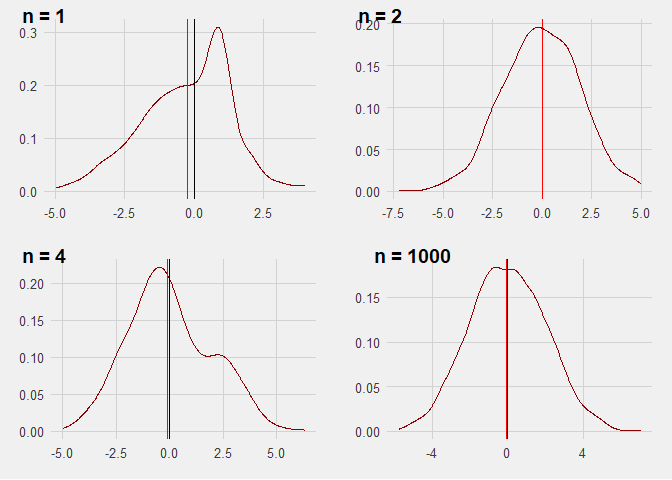
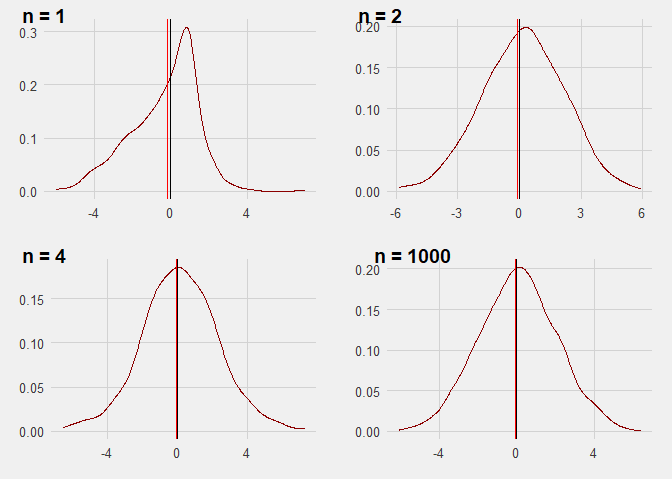
Add files via upload

diff --git a/lab_04/lab04.html b/lab_04/lab04.html
@@ -11,6 +11,7 @@
 
 <meta name="author" content="Your Friendly GEs!" />
 
+<meta name="date" content="2020-10-26" />
 
 <title>Lab 04, Fall 2020</title>
 
@@ -2809,23 +2810,31 @@ div.tocify {
 
 <h1 class="title toc-ignore">Lab 04, Fall 2020</h1>
 <h4 class="author">Your Friendly GEs!</h4>
-<h4 class="date">10/5/2020</h4>
+<h4 class="date">October 26, 2020</h4>
 
 </div>
 
 
 <p>Welcome back! Today, we’re going to learn about functions. These notes are in depth to be sure everyone can learn these skills no matter where you are in your understanding.</p>
-<p>Let’s start our lecture as we always do: load some packages. Packages, as you’ll recall, are functions someone has written for R. For us today, we’ll be working with… - ggplot2 to make amazing data visualizations, - tidyverse to help manipulate data, - magrittr, which helps us tidy up code, and -pacman which makes managing all of these packages so much simpler.</p>
+<p>Let’s start our lecture as we always do: load some packages. Packages, as you’ll recall, are functions someone has written for R. For us today, we’ll be working with…</p>
+<ul>
+<li>tidyverse to help manipulate data,</li>
+<li>magrittr, which helps us tidy up code, and</li>
+<li>pacman which makes managing all of these packages so much simpler.</li>
+<li>ggplot to make some awesome visuals (tune in for a more detailed ggplot lesson next week)</li>
+</ul>
 <div id="lesson-00-packages" class="section level2">
 <h2>Lesson 00: Packages</h2>
+<p>Fire these suckers up</p>
 <pre class="r"><code>library(pacman)
 p_load(tidyverse, magrittr, ggplot2)</code></pre>
 </div>
 <div id="lesson-01-function-basics" class="section level2">
 <h2>Lesson 01: Function Basics</h2>
 <p>Before we talk about functions in R, we should first make sure we understand what a function is in general. You all are probably used to thinking of something like:</p>
-<p>But what really does this even mean? Why is this a useful tool? - It takes some input (a number), and gives us an output (in this case, the squared number, which is indeed also a number). We can represent the function <span class="math inline">\(f\)</span> above as:</p>
+<p>But what really does this even mean? Why is this a useful tool?</p>
 <ul>
+<li><p>It takes some input (a number), and gives us an output (in this case, the squared number, which is indeed also a number). We can represent the function <span class="math inline">\(f\)</span> above as:</p></li>
 <li><p><code>Number -&gt; ADifferentNumber</code> where that arrow is something we call a mapping. A mapping links one object to another. This doesn’t <em>have</em> to be two numbers, it could be a word and a dataframe, or two words. For instance, I could come up with a function called <code>color labeler</code> and then pass it some object, which it will map to a color.</p>
 <p><code>color_labeler(banana) = yellow</code></p></li>
 </ul>
@@ -2834,32 +2843,30 @@ p_load(tidyverse, magrittr, ggplot2)</code></pre>
 <li>Everything in R has a <code>name</code>, and everything is an <code>object</code></li>
 <li>Functions have <code>inputs</code>/<code>arguments</code> and <code>outputs</code></li>
 </ul>
-<p>With these in mind, let’s write a function that will take some x, and spit out x^2 + 10. That is, let’s write the code for f(x)=x^2+10.</p>
+<p>With these in mind, let’s write a function that will take some <span class="math inline">\(x\)</span>, and spit out <span class="math inline">\(x^2 + 10\)</span>. That is, let’s write the code for <span class="math inline">\(f(x)=x^2+10\)</span>.</p>
 <p><strong>Everything in R needs a name</strong> That includes our function.<br />
 We do this by starting with a name, setting it equal to a ‘function()’ function.</p>
-<p>In general, this function looks like <code>function([some_set_of_arguments]){your function code}</code>. Let’s look at an example below.</p>
-<pre class="r"><code>#function() is a special operator that takes any arguments you want in the parentheses, and then lets you manipulate
-#them in any way you see fit. Think of the parenthese here as the toys you&#39;re giving your computer to play with in
-#the sandbox.
+<p>In general, this function looks like:</p>
+<p><code>function([some_set_of_arguments]){your function code}</code></p>
+<p>Let’s look at an example below.</p>
+<pre class="r"><code>#function() is a special operator that takes any arguments you want in the parentheses, and then lets you manipulate them in any way you see fit. Think of the parentheses here as the toys you&#39;re giving your computer to play with in the sandbox.
+
 squarePlusten = function(x){
   
-  #tell squarePlusten what to do. x is an input here, we can tell our function to transform our variable into
-  #something else.
+  #tell squarePlusten what to do. x is an input here, we can tell our function to transform our variable into something else.
   
   x_squaredten = x^2+10
   
-  #Now, in order to make use of this value, we need our function to spit something out. 
-  #We do this with another special function, &#39;return()&#39;. This will stop your function and tell it to spit out
-  #whatever object is in the parentheses. In a sense, it&#39;s the toy your computer gives back to the rest of your 
-  #workspace.
+  #Now, in order to make use of this value, we need our function to spit something out. We do this with another special function, &#39;return()&#39;. This will stop your function and tell it to spit out whatever object is in the parentheses. In a sense, it&#39;s the toy your computer gives back to the rest of your workspace.
   
   return(x_squaredten)
 }</code></pre>
-<p>notice however: x_squaredten <em>isn’t equal to anything</em> now that our function has been run. That’s because x_squaredten is only defined in the context of your written function.</p>
+<p>notice however: <code>x_squaredten</code> <em>isn’t equal to anything</em> now that our function has been run. That’s because <code>x_squaredten</code> is only defined in the context of your written function.</p>
 <p>Try running this, it won’t work</p>
 <pre class="r"><code># x_squaredten</code></pre>
 <p>Now, let’s see what our function can do here.</p>
 <pre class="r"><code>#check for 10. should be 110
+
 squarePlusten(10)</code></pre>
 <pre><code>## [1] 110</code></pre>
 <p>A couple things to note</p>
@@ -2874,21 +2881,27 @@ squarePlusten(10)</code></pre>
 </div>
 <div id="lesson-02-sapply" class="section level2">
 <h2>Lesson 02: <code>sapply()</code></h2>
-<p>So, what should our code do? - Take a vector, say c(1,2,3) - Square each element of the vector. note that we will need a way to store these results. Our first step is to figure out all of our moving parts. Here, we need some set of numbers. We can use vectors with the <code>c()</code> command!</p>
+<p>So, what should our code do?</p>
+<ul>
+<li>Take a vector, say c(1,2,3)</li>
+<li>Square each element of the vector. note that we will need a way to store these results.</li>
+</ul>
+<p>Our first step is to figure out all of our moving parts. Here, we need some set of numbers. We can use vectors with the <code>c()</code> command!</p>
 <p>Lets store them in a vector called x: <code>x =  c(1,4,9)</code></p>
 <p>Now, I want a function to return a plot with all of the (x,x^2 = y) pairs affiliated. We can use a special function called <code>sapply()</code> which lets us perform a function a whole bunch of times.</p>
-<p><code>sapply()</code> is cool. This is how it works: <code>sapply(some_vector,function)</code> will take every element in the vector and apply your function to it. We can use this to run a function a whole ton of times all at once.</p>
+<p><code>sapply()</code> is cool. The <code>sapply()</code> function takes list, vector or data frame as input and gives output in vector or matrix.</p>
+<p>This is how it works: <code>sapply(some_vector,function)</code> will take every element in the vector and apply your function to it. We can use this to run a function a whole ton of times all at once.</p>
 <p>We will use <code>sapply()</code>, which takes three arguments, an input, an argument to build a new set of values.</p>
-<pre class="r"><code># Build a vector, as we discussed above
-x = c(1,4,9)
+<pre class="r"><code>x = c(1,4,9)                        # Build a vector, as we discussed above
 
-plot_sq = function(x){  #now we can use the `sapply()` function as discussed above.
+plot_sq = function(x){              # Now we can use the `sapply()` function as discussed above.
+  
   y = sapply(x, function(x) x^2)
-  #return the plot
-  return(plot(x=x,y=y))
+  
+  return(plot(x=x,y=y))             # Specify return() to be the plot
 }
 
-plot_sq(1:3)  #check that it works</code></pre>
+plot_sq(1:3)                        # Check that it works</code></pre>
[1 lines of base64/hex data omitted]
 <p>We just built our own plotting function! Pretty exciting</p>
 </div>
@@ -2897,6 +2910,9 @@ plot_sq(1:3)  #check that it works</code></pre>
 <p>Note that we could have also written the same thing with a for loop. What is a for loop? the definition is actually hinted at in the name: the logical flow here is <strong>‘for something <code>i</code> in a list/vector, do argument <code>x</code>.’</strong> A better source:</p>
 <p>From wikipedia:</p>
 <p><em>A for-loop has two parts: a header specifying the iteration, and a body which is executed once per iteration</em></p>
+<p>How do I use for loops in everyday tasks? Let say I need to do some task that simple/tedious but I need to do it 1000 times. For example:</p>
+<p><em>Let’s say I want to find the average between each observation (row) and the two observations (rows) above and below and save it to a new variable. One way I can do this is to manual code for each row and use Ctrl + C and Ctrl + V 1000 times. Or I can just write a loop that will iterate down all rows and do it in a fraction of the time.</em></p>
+<p>Writing a loop will save you hours. They will be your best friend, this is an important thing to learn. Not just for R, but for all coding languages. However, they can be hard to write if you have never done it before.</p>
 <p>Here is an example of how to write a basic for loop:</p>
 <pre class="r"><code>x = c()             # Build an empty vector 
 
@@ -2907,7 +2923,7 @@ for (i in 1:10){    # for object i from 1 to 10
 x</code></pre>
 <pre><code>##  [1] 10.000000  5.000000  3.333333  2.500000  2.000000  1.666667  1.428571
 ##  [8]  1.250000  1.111111  1.000000</code></pre>
-<p>i is, for each loop, storing the value in your sequence (here, it’s a number in <code>1:10</code>) then performing the operation you defined in the loop. Like a function, a for loop defines its “body” by setting the start point with a <code>{</code> and an end point with a <code>}</code> (&lt;– curly braces).</p>
+<p><code>i</code> is, for each loop, storing the value in your sequence (here, it’s a number in <code>1:10</code>) then performing the operation you defined in the loop. Like a function, a for loop defines its “body” by setting the start point with a <code>{</code> and an end point with a <code>}</code> (&lt;– curly braces).</p>
 <p><strong>Always make sure that you complete your curly braces!! Always makes sure in curly braces, the code is tabbed to the right!</strong></p>
 <p>But, what is this doing? Let’s do this manually, but for i in 1:3</p>
 <p>For <code>i = 1</code></p>
@@ -2967,6 +2983,10 @@ plot_sqf(1:10)              # Plot squared values between 1-10</code></pre>
 </div>
 <div id="lesson-04-returning-to-heteroskedasticity" class="section level2">
 <h2>Lesson 04: Returning to Heteroskedasticity</h2>
+<ul>
+<li>Why do we need functions?</li>
+<li>Why do we need loops?</li>
+</ul>
 <p>You don’t have to code this, but I want to give you guys some intuition for part 1f on your problem set. In particular, what does an unbiased &amp; inconsistent vs. biased and consistent estimator look like? Why would we want one or another?</p>
 <p>To do this, I’m going to simulate my own data. We’re going to build one column of a normal variable. But, we’ll be using this functionality a LOT. So let’s make a <code>function</code> to generate this dataframe.</p>
 <pre class="r"><code>data_gen &lt;- function(n) {
@@ -2985,7 +3005,7 @@ plot_sqf(1:10)              # Plot squared values between 1-10</code></pre>
 head(df, 10)</code></pre>
 <div data-pagedtable="false">
 <script data-pagedtable-source type="application/json">
-{"columns":[{"label":[""],"name":["_rn_"],"type":[""],"align":["left"]},{"label":["v1"],"name":[1],"type":["dbl"],"align":["right"]}],"data":[{"1":"-3.0202310","_rn_":"1"},{"1":"-3.8340855","_rn_":"2"},{"1":"0.8734738","_rn_":"3"},{"1":"-3.1322236","_rn_":"4"},{"1":"0.8963298","_rn_":"5"},{"1":"3.3779974","_rn_":"6"},{"1":"1.7002259","_rn_":"7"},{"1":"-2.0947341","_rn_":"8"},{"1":"0.3360098","_rn_":"9"},{"1":"1.4260332","_rn_":"10"}],"options":{"columns":{"min":{},"max":[10]},"rows":{"min":[10],"max":[10]},"pages":{}}}
+{"columns":[{"label":[""],"name":["_rn_"],"type":[""],"align":["left"]},{"label":["v1"],"name":[1],"type":["dbl"],"align":["right"]}],"data":[{"1":"1.016464","_rn_":"1"},{"1":"4.321866","_rn_":"2"},{"1":"-1.373943","_rn_":"3"},{"1":"1.776310","_rn_":"4"},{"1":"-2.703223","_rn_":"5"},{"1":"2.816656","_rn_":"6"},{"1":"-3.063958","_rn_":"7"},{"1":"1.724239","_rn_":"8"},{"1":"3.369201","_rn_":"9"},{"1":"-3.112101","_rn_":"10"}],"options":{"columns":{"min":{},"max":[10]},"rows":{"min":[10],"max":[10]},"pages":{}}}
   </script>
 </div>
 <p>We also are going to generate a lot of these dataframes. Let’s make a second function</p>
@@ -3037,7 +3057,7 @@ p_load(cowplot)
 plot_grid(p1, p2, p3, p4, 
           labels = c(&quot;n = 1&quot;, &quot;n = 2&quot;, &quot;n = 4&quot;, &#39;n = 1000&#39;),
           ncol = 2, nrow = 2)</code></pre>
[2 lines of base64/hex data omitted]
 <p>now, to hurry things along, let’s do our other option. Consistent but biased. That means, as n-&gt; infinity, we are converging on beta, but E(estimator) isn’t equal to our E(estimated). What kind of function would do that? Well…</p>
 <ul>
 <li>Here’s an example: estimator = mean(data) + 6/n. It will always be biased, but it will converge.</li>
@@ -3084,7 +3104,7 @@ library(cowplot)
 plot_grid(p1, p2, p3, p4, 
           labels = c(&quot;n = 1&quot;, &quot;n = 2&quot;, &quot;n = 4&quot;, &#39;n = 1000&#39;),
           ncol = 2, nrow = 2)</code></pre>
[2 lines of base64/hex data omitted]
 <p>So, now that you’ve seen this, which option would you choose? The choice is more complicated than you think, so definitely spend some time on this. The homework question itself is mostly about how much thought you put into your answer, but this question actually has a great deal of value if you see yourself going into data anlaysis in the future.</p>
 <p>Note that the <code>echo = FALSE</code> parameter was added to the code chunk to prevent printing of the R code that generated the plot.</p>
 </div>

diff --git a/lab_04/lab04.md b/lab_04/lab04.md
@@ -1,7 +1,7 @@
 ---
 title: "Lab 04, Fall 2020"
 author: "Your Friendly GEs!"
-date: "10/5/2020"
+date: "October 26, 2020"
 output:
   html_document:
     df_print: paged
@@ -24,12 +24,15 @@ output:
 Welcome back! Today, we're going to learn about functions. These notes are in depth to be sure everyone can learn these skills no matter where you are in your understanding.
 
 Let's start our lecture as we always do: load some packages. Packages, as you'll recall, are functions someone has written for R. For us today, we'll be working with...
-- ggplot2 to make amazing data visualizations, 
+
 - tidyverse to help manipulate data, 
 - magrittr, which helps us tidy up code, and 
- -pacman which makes managing all of these packages so much simpler.
+- pacman which makes managing all of these packages so much simpler.
+- ggplot to make some awesome visuals (tune in for a more detailed ggplot lesson next week)
 
 ## Lesson 00: Packages
+
+Fire these suckers up
 
 
 ```r
@@ -43,6 +46,7 @@ Before we talk about functions in R, we should first make sure we understand wha
 You all are probably used to thinking of something like:
   
 But what really does this even mean? Why is this a useful tool?
+
  - It takes some input (a number), and gives us an output (in this case, the squared number, which is indeed also a number). We can represent the function $f$ above as:
   
 - `Number -> ADifferentNumber` where that arrow is something we call a mapping. A mapping links one object to another. This doesn't *have* to be two numbers, it could be a word and a dataframe, or two words. For instance, I could come up with a function called `color labeler` and then pass it some object, which it will map to a color.
@@ -54,36 +58,35 @@ Knowing all of this, we need to go back to lecture 1 to remind ourselves about R
 - Everything in R has a `name`, and everything is an `object`
 - Functions have `inputs`/`arguments` and `outputs`
 
-With these in mind, let's write a function that will take some x, and spit out x^2 + 10. That is, let's write the code for f(x)=x^2+10.
+With these in mind, let's write a function that will take some $x$, and spit out $x^2 + 10$. That is, let's write the code for $f(x)=x^2+10$.
 
 **Everything in R needs a name** That includes our function.  
 We do this by starting with a name, setting it equal to a 'function()' function.
 
-In general, this function looks like `function([some_set_of_arguments]){your function code}`. Let's look at an example below.
+In general, this function looks like:
+
+`function([some_set_of_arguments]){your function code}`
+
+Let's look at an example below.
 
 
 
 ```r
-#function() is a special operator that takes any arguments you want in the parentheses, and then lets you manipulate
-#them in any way you see fit. Think of the parenthese here as the toys you're giving your computer to play with in
-#the sandbox.
+#function() is a special operator that takes any arguments you want in the parentheses, and then lets you manipulate them in any way you see fit. Think of the parentheses here as the toys you're giving your computer to play with in the sandbox.
+
 squarePlusten = function(x){
   
-  #tell squarePlusten what to do. x is an input here, we can tell our function to transform our variable into
-  #something else.
+  #tell squarePlusten what to do. x is an input here, we can tell our function to transform our variable into something else.
   
   x_squaredten = x^2+10
   
-  #Now, in order to make use of this value, we need our function to spit something out. 
-  #We do this with another special function, 'return()'. This will stop your function and tell it to spit out
-  #whatever object is in the parentheses. In a sense, it's the toy your computer gives back to the rest of your 
-  #workspace.
+  #Now, in order to make use of this value, we need our function to spit something out. We do this with another special function, 'return()'. This will stop your function and tell it to spit out whatever object is in the parentheses. In a sense, it's the toy your computer gives back to the rest of your workspace.
   
   return(x_squaredten)
 }
 ```
 
-notice however: x_squaredten *isn't equal to anything* now that our function has been run. That's because x_squaredten is only defined in the context of your written function.
+notice however: `x_squaredten` *isn't equal to anything* now that our function has been run. That's because `x_squaredten` is only defined in the context of your written function.
 
 Try running this, it won't work
 
@@ -96,6 +99,7 @@ Now, let's see what our function can do here.
 
 ```r
 #check for 10. should be 110
+
 squarePlusten(10)
 ```
 
@@ -122,31 +126,35 @@ We're going to need a new tool for this which I will get to.
 
 
 So, what should our code do?
+
  - Take a vector, say c(1,2,3)
  - Square each element of the vector. note that we will need a way to store these results. 
+ 
 Our first step is to figure out all of our moving parts. Here, we need some set of numbers. We can use vectors with the `c()` command!
 
 Lets store them in a vector called x: `x =  c(1,4,9)`
   
 Now, I want a function to return a plot with all of the (x,x^2 = y) pairs affiliated. We can use a special function called `sapply()` which lets us perform a function a whole bunch of times.
 
-`sapply()` is cool. This is how it works: `sapply(some_vector,function)` will take every element in the vector and apply your function to it. We can use this to run a function a whole ton of times all at once.
+`sapply()` is cool. The `sapply()` function takes list, vector or data frame as input and gives output in vector or matrix.
+
+This is how it works: `sapply(some_vector,function)` will take every element in the vector and apply your function to it. We can use this to run a function a whole ton of times all at once.
 
 
 We will use `sapply()`, which takes three arguments, an input, an argument to build a new set of values.
 
 
 ```r
-# Build a vector, as we discussed above
-x = c(1,4,9)
+x = c(1,4,9)                        # Build a vector, as we discussed above
 
-plot_sq = function(x){  #now we can use the `sapply()` function as discussed above.
+plot_sq = function(x){              # Now we can use the `sapply()` function as discussed above.
+  
   y = sapply(x, function(x) x^2)
-  #return the plot
-  return(plot(x=x,y=y))
+  
+  return(plot(x=x,y=y))             # Specify return() to be the plot
 }
 
-plot_sq(1:3)  #check that it works
+plot_sq(1:3)                        # Check that it works
 ```
 
 ![](lab04_files/figure-html/unnamed-chunk-5-1.png)<!-- -->
@@ -164,6 +172,12 @@ the definition is actually hinted at in the name: the logical flow here is **'fo
 From wikipedia:
 
 *A for-loop has two parts: a header specifying the iteration, and a body which is executed once per iteration*
+
+How do I use for loops in everyday tasks? Let say I need to do some task that simple/tedious but I need to do it 1000 times. For example:
+
+*Let's say I want to find the average between each observation (row) and the two observations (rows) above and below   and save it to a new variable. One way I can do this is to manual code for each row and use Ctrl + C and Ctrl + V 1000 times. Or I can just write a loop that will iterate down all rows and do it in a fraction of the time.*
+
+Writing a loop will save you hours. They will be your best friend, this is an important thing to learn. Not just for R, but for all coding languages. However, they can be hard to write if you have never done it before.
 
 Here is an example of how to write a basic for loop:
 
@@ -184,7 +198,7 @@ x
 ```
 
 
-i is, for each loop, storing the value in your sequence (here, it's a number in `1:10`) then performing the operation you defined in the loop. Like a function, a for loop defines its "body" by setting the start point with a `{` and an end point with a `}` (<-- curly braces).
+`i` is, for each loop, storing the value in your sequence (here, it's a number in `1:10`) then performing the operation you defined in the loop. Like a function, a for loop defines its "body" by setting the start point with a `{` and an end point with a `}` (<-- curly braces).
 
 **Always make sure that you complete your curly braces!! Always makes sure in curly braces, the code is tabbed to the right!**
 
@@ -295,7 +309,10 @@ Great! But  that graph looked horrible. How should we spruce it up? Great questi
 
 
 
-## Lesson 04: Returning to Heteroskedasticity
+## Lesson 04: Returning to Heteroskedasticity 
+
+- Why do we need functions?
+- Why do we need loops?
 
 You don't have to code this, but I want to give you guys some intuition for part 1f on your problem set. In particular, what does an unbiased & inconsistent vs. biased and consistent estimator look like? Why would we want one or another?
 
@@ -326,7 +343,7 @@ head(df, 10)
 
 <div data-pagedtable="false">
   <script data-pagedtable-source type="application/json">
-{"columns":[{"label":[""],"name":["_rn_"],"type":[""],"align":["left"]},{"label":["v1"],"name":[1],"type":["dbl"],"align":["right"]}],"data":[{"1":"-3.0202310","_rn_":"1"},{"1":"-3.8340855","_rn_":"2"},{"1":"0.8734738","_rn_":"3"},{"1":"-3.1322236","_rn_":"4"},{"1":"0.8963298","_rn_":"5"},{"1":"3.3779974","_rn_":"6"},{"1":"1.7002259","_rn_":"7"},{"1":"-2.0947341","_rn_":"8"},{"1":"0.3360098","_rn_":"9"},{"1":"1.4260332","_rn_":"10"}],"options":{"columns":{"min":{},"max":[10]},"rows":{"min":[10],"max":[10]},"pages":{}}}
+{"columns":[{"label":[""],"name":["_rn_"],"type":[""],"align":["left"]},{"label":["v1"],"name":[1],"type":["dbl"],"align":["right"]}],"data":[{"1":"1.016464","_rn_":"1"},{"1":"4.321866","_rn_":"2"},{"1":"-1.373943","_rn_":"3"},{"1":"1.776310","_rn_":"4"},{"1":"-2.703223","_rn_":"5"},{"1":"2.816656","_rn_":"6"},{"1":"-3.063958","_rn_":"7"},{"1":"1.724239","_rn_":"8"},{"1":"3.369201","_rn_":"9"},{"1":"-3.112101","_rn_":"10"}],"options":{"columns":{"min":{},"max":[10]},"rows":{"min":[10],"max":[10]},"pages":{}}}
   </script>
 </div>
 
